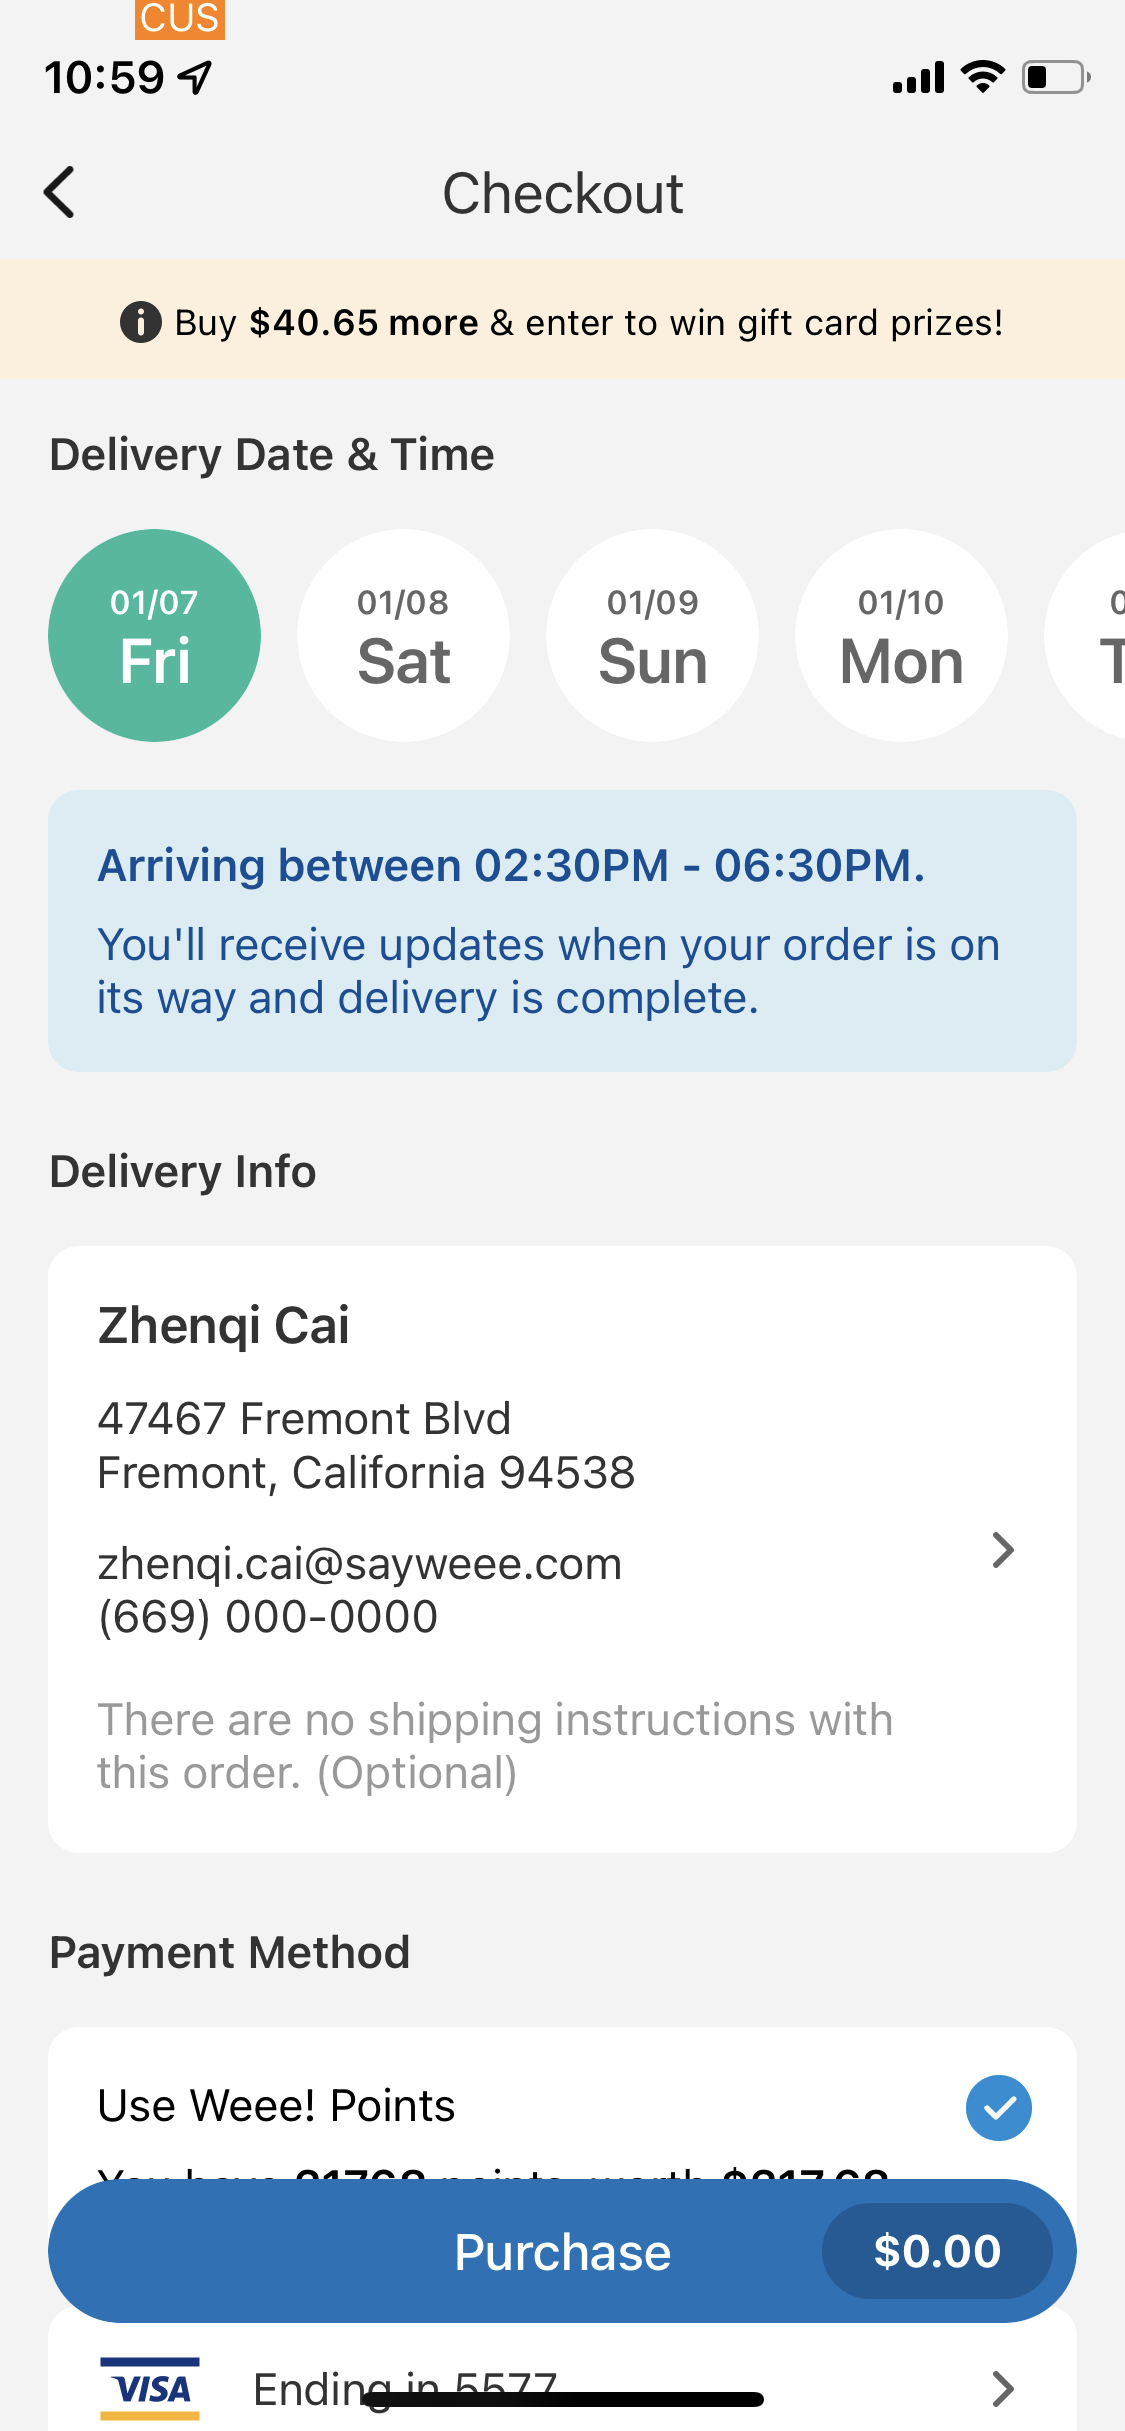
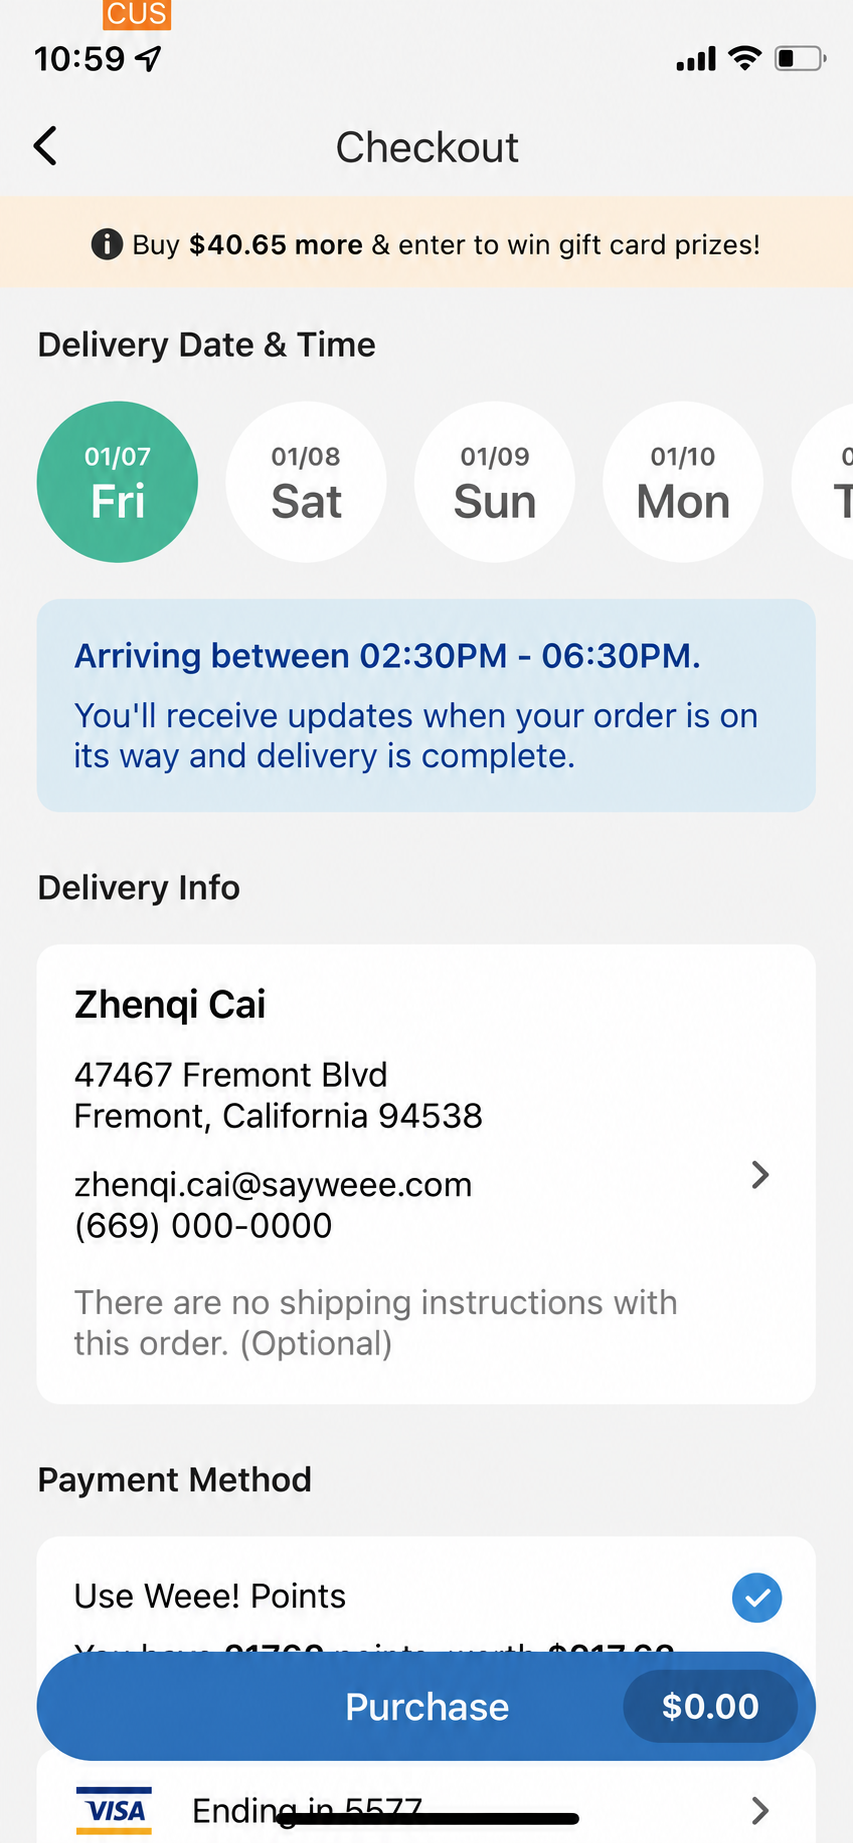
Replace remaining Weee case-study images with AI-restored versions

diff --git a/js/data.js b/js/data.js
@@ -407,9 +407,9 @@ window.SITE = {
               ] },
               { type: "statement", text: "How might we help customers find food for now while keeping other useful options easy to discover?" },
               { type: "row", size: "sm", label: "Previous RTG flow: customers had to pick a date and time first", items: [
-                ["images/weee/previous-1.webp?v=original-hd1", "", "Restaurant To-Go list with a date strip and dining options"],
-                ["images/weee/previous-2.webp?v=original-hd1", "", "Dining options sheet: all, lunch delivery, dinner delivery, pickup"],
-                ["images/weee/previous-3.webp?v=original-hd1", "", "Checkout with delivery date and time"]
+                ["images/weee/previous-1.webp?v=redraw-hd4", "", "Restaurant To-Go list with a date strip and dining options"],
+                ["images/weee/previous-2.webp?v=redraw-hd4", "", "Dining options sheet: all, lunch delivery, dinner delivery, pickup"],
+                ["images/weee/previous-3.webp?v=redraw-hd4", "", "Checkout with delivery date and time"]
               ] }
             ]
           },
@@ -430,7 +430,7 @@ window.SITE = {
               { type: "p", text: "Interviews with existing RTG customers showed that scheduled orders often supported planned occasions, such as parties and team lunches. Customers valued reasonable prices, and restaurant location mattered when choosing pickup. They also wanted a quicker option for everyday meals.",
                 after: "On-demand therefore needed to sit alongside scheduled delivery and pickup, with each option clearly explained." },
               { type: "img", size: "md", frame: true, src: "images/weee/use-cases.webp?v=approved-hd2", alt: "Use cases by when and how: now or later, delivery or pickup, with accuracy, frequency, fulfillment partner (RICEPO or RTG) and priority" },
-              { type: "img", src: "images/weee/product-map.webp?v=original-hd1", frame: true, alt: "Product map: browsing, order and fulfillment (on-demand) across list, menu, cart, checkout, confirmed, order detail, today’s order and track items" },
+              { type: "img", src: "images/weee/product-map.webp?v=redraw-hd4", frame: true, alt: "Product map: browsing, order and fulfillment (on-demand) across list, menu, cart, checkout, confirmed, order detail, today’s order and track items" },
               { type: "p", title: "What we wanted to learn", items: ["Do customers want to choose a delivery method and time before browsing?", "Can they understand what is available without losing visibility into other restaurants?"] },
               { type: "cards", label: "What success would look like", items: [
                 { title: "Adoption", items: ["New customers whose first restaurant order is on-demand", "RTG buyers as a share of Weee! buyers"] },
@@ -444,11 +444,11 @@ window.SITE = {
             blocks: [
               { type: "statement", text: "Two approaches, with different trade-offs." },
               { type: "p", text: "I explored how default filters could shape both restaurant discovery and the clarity of delivery options. The goal was not to choose a layout, but to define how the system communicates availability." },
-              { type: "option", frame: true, labels: true, title: "Direction 1: Browse all restaurants first", src: "images/weee/option-1.webp?v=original-hd1",
+              { type: "option", frame: true, labels: true, title: "Direction 1: Browse all restaurants first", src: "images/weee/option-1.webp?v=redraw-hd4",
                 intro: "No delivery filter was preselected. Customers could explore the full restaurant selection, then narrow their choices.",
                 pros: ["Preserved visibility across on-demand, scheduled delivery, and pickup."],
                 cons: ["Customers needed clearer guidance about the default state and what was available immediately.", "Dev: Three filters for time and method may be too complicated to learn."] },
-              { type: "option", frame: true, labels: true, title: "Direction 2: Default to on-demand", src: "images/weee/option-2.webp?v=original-hd1",
+              { type: "option", frame: true, labels: true, title: "Direction 2: Default to on-demand", src: "images/weee/option-2.webp?v=redraw-hd4",
                 intro: "On-demand was preselected, so customers immediately saw restaurants offering that service.",
                 pros: ["A more direct starting point for customers who want food now."],
                 cons: ["PM: Restaurants without on-demand service (about 60%) become less visible, even when they might suit a later meal."] },
@@ -471,17 +471,17 @@ window.SITE = {
             blocks: [
               { type: "statement", text: "Browse broadly. Set constraints when ready." },
               { type: "p", text: "The final experience showed all restaurants by default and let customers narrow their choices through delivery and pickup filters. Rather than asking the default to decide for everyone, I added guidance and feedback exactly where customers needed it." },
-              { type: "img", frame: true, src: "images/weee/iteration-tooltip.webp?v=original-hd1", alt: "Final filters: a tooltip explaining the default state, a delivery window sheet with Select Time Later, and Pickup highlighted while choosing a date" },
+              { type: "img", frame: true, src: "images/weee/iteration-tooltip.webp?v=redraw-hd4", alt: "Final filters: a tooltip explaining the default state, a delivery window sheet with Select Time Later, and Pickup highlighted while choosing a date" },
               { type: "p", title: "Explain the default state", text: "A tooltip clarifies that customers can use the filters to find restaurants matching their delivery preferences. This addresses the uncertainty about the unfiltered view while preserving the full restaurant selection." },
               { type: "p", title: "Let customers choose the time later", text: "“Select Time Later” lets customers keep exploring before committing to a lunch or dinner window. It is also clearer than showing a meal period that can’t be selected yet." },
               { type: "p", title: "Keep selection feedback visible", text: "The Pickup tab now highlights when tapped, even while customers are still choosing a date in the pop-up, so they can see that their action registered." },
               { type: "p", title: "Adapt to regional availability", text: "Some locations would not support on-demand delivery for several months. I designed a version of the flow without that option, so the interface reflects what customers can actually use. Scheduled delivery and pickup remain available without presenting an unsupported service." },
-              { type: "img", frame: true, src: "images/weee/edge-case.webp?v=original-hd1", alt: "Restaurant list and filters without the on-demand option" },
+              { type: "img", frame: true, src: "images/weee/edge-case.webp?v=redraw-hd4", alt: "Restaurant list and filters without the on-demand option" },
               { type: "h", text: "Other flows" },
-              { type: "img", frame: true, src: "images/weee/flow-settings.webp?v=original-hd1", alt: "Change delivery settings while browsing a restaurant menu" },
+              { type: "img", frame: true, src: "images/weee/flow-settings.webp?v=redraw-hd4", alt: "Change delivery settings while browsing a restaurant menu" },
               { type: "pair", frame: true, items: [
-                ["images/weee/flow-checkout.webp?v=original-hd1", "Add to cart and check out"],
-                ["images/weee/flow-track.webp?v=original-hd1", "Track orders on the map"]
+                ["images/weee/flow-checkout.webp?v=redraw-hd4", "Add to cart and check out"],
+                ["images/weee/flow-track.webp?v=redraw-hd4", "Track orders on the map"]
               ] }
             ]
           },

diff --git a/project.html b/project.html
@@ -13,7 +13,7 @@
 <body data-page="project">
   <div id="app"></div>
   <script src="js/analytics.js?v=ord1"></script>
-  <script src="js/data.js?v=hero-hd3"></script>
+  <script src="js/data.js?v=weee-redraw-hd4"></script>
   <script src="js/main.js?v=ord1"></script>
   <script src="js/weee-image-viewer.js?v=1"></script>
 </body>
